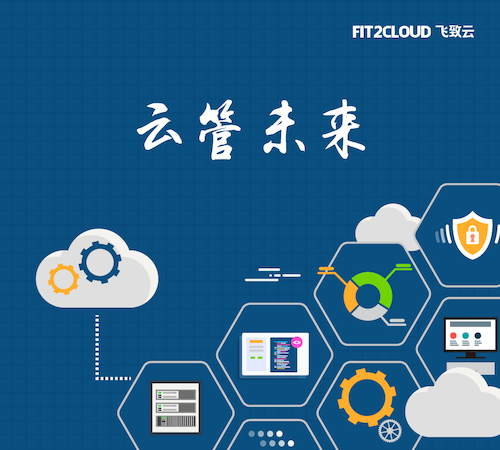
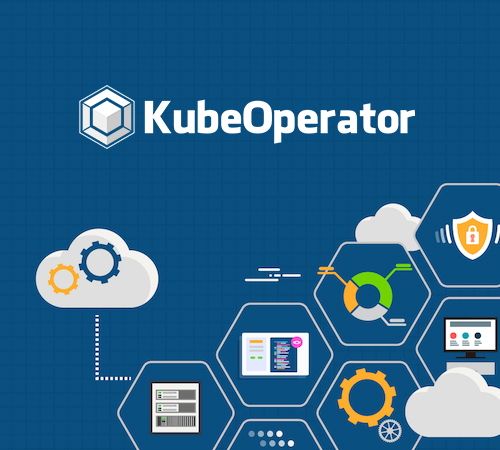
修改logo

Changed region(s): [[0.15, 0.1867, 0.84, 0.3733], [0.69, 0.0311, 0.96, 0.0933]]

diff --git a/src/components/configuration/appRepositories.vue b/src/components/configuration/appRepositories.vue
@@ -46,10 +46,11 @@
     import apiSetting from "../utils/apiSetting.js";
     import http from "../utils/httpAxios.js";
     import errorMessage from '../utils/errorMessage.js';
-    import getParamApi from "../utils/getParamApi";
+    // import getParamApi from "../utils/getParamApi";
     import loading from '../utils/loading.js';
-    import noticeMessage from '../utils/noticeMessage.js';
+    // import noticeMessage from '../utils/noticeMessage.js';
 
+    /* eslint-disable */
     export default {
         data() {
             return {
@@ -65,7 +66,6 @@
             init: async function () {
                 await http(apiSetting.kubernetes.getAppRepositories).then(res => {
                     if (res.status == 200) {
-                        console.log(res)
                         this.tableData = res.data.items
                     } else {
                         //Error Message
@@ -75,27 +75,13 @@
                 })
                 this.loading = false
             },
-            refresh: async function(index, name) {
+            refresh: async function() {
                 this.loading = true
-                await http(getParamApi(apiSetting.kubernetes.getAppRepositories, name)).then(res => {
-                    if (res.status == 200) {
-                        delete this.tableData[index]
-                        let repo = res.data
-                        this.tableData.push(repo)
-                    } else {
-                        //Error Message
-                        this.loading = false;
-                        errorMessage(this, res);
-                    }
-                }).catch(msg => {
-                    noticeMessage(this, msg.data, 'error');
-                })
-                this.loading = false
+                await this.init()
             },
-            refreshAll() {
-                for (let [i, v] of this.tableData) {
-                    this.refresh(i, v.metadata.name)
-                }
+            refreshAll: async function() {
+                this.loading = true
+                await this.init()
             }
         }
     }

diff --git a/src/components/basic/basicHeader.vue b/src/components/basic/basicHeader.vue
@@ -42,7 +42,7 @@
                     {{$t('message.configuration')}}
                 </template>
                 <el-menu-item index="6-1" @click="appRepositories">{{$t('message.app_repositories')}}</el-menu-item>
-                <el-menu-item index="6-2" @click="serviceBroker">{{$t('message.service_broker')}}</el-menu-item>
+<!--                <el-menu-item index="6-2" @click="serviceBroker">{{$t('message.service_broker')}}</el-menu-item>-->
             </el-submenu>
             <el-submenu index="7" class="header-right" v-if="this.$route.path != '/'">
                 <template slot="title">

diff --git a/src/components/basic/basicFooter.vue b/src/components/basic/basicFooter.vue
@@ -1,7 +1,9 @@
 <template>
     <div class="footer">
-        <img class="login_footer" src="../../assets/image/logo-white.png"/>
-        <div class="login_footer_p"><i class="iconfont">&#xea0a;</i></div>
+<!--        <img class="login_footer" src="../../assets/image/logo-white.png"/>-->
+        <div class="login_footer_p">
+<!--            <i class="iconfont">&#xea0a;</i>-->
+        </div>
     </div>
 </template>
 
